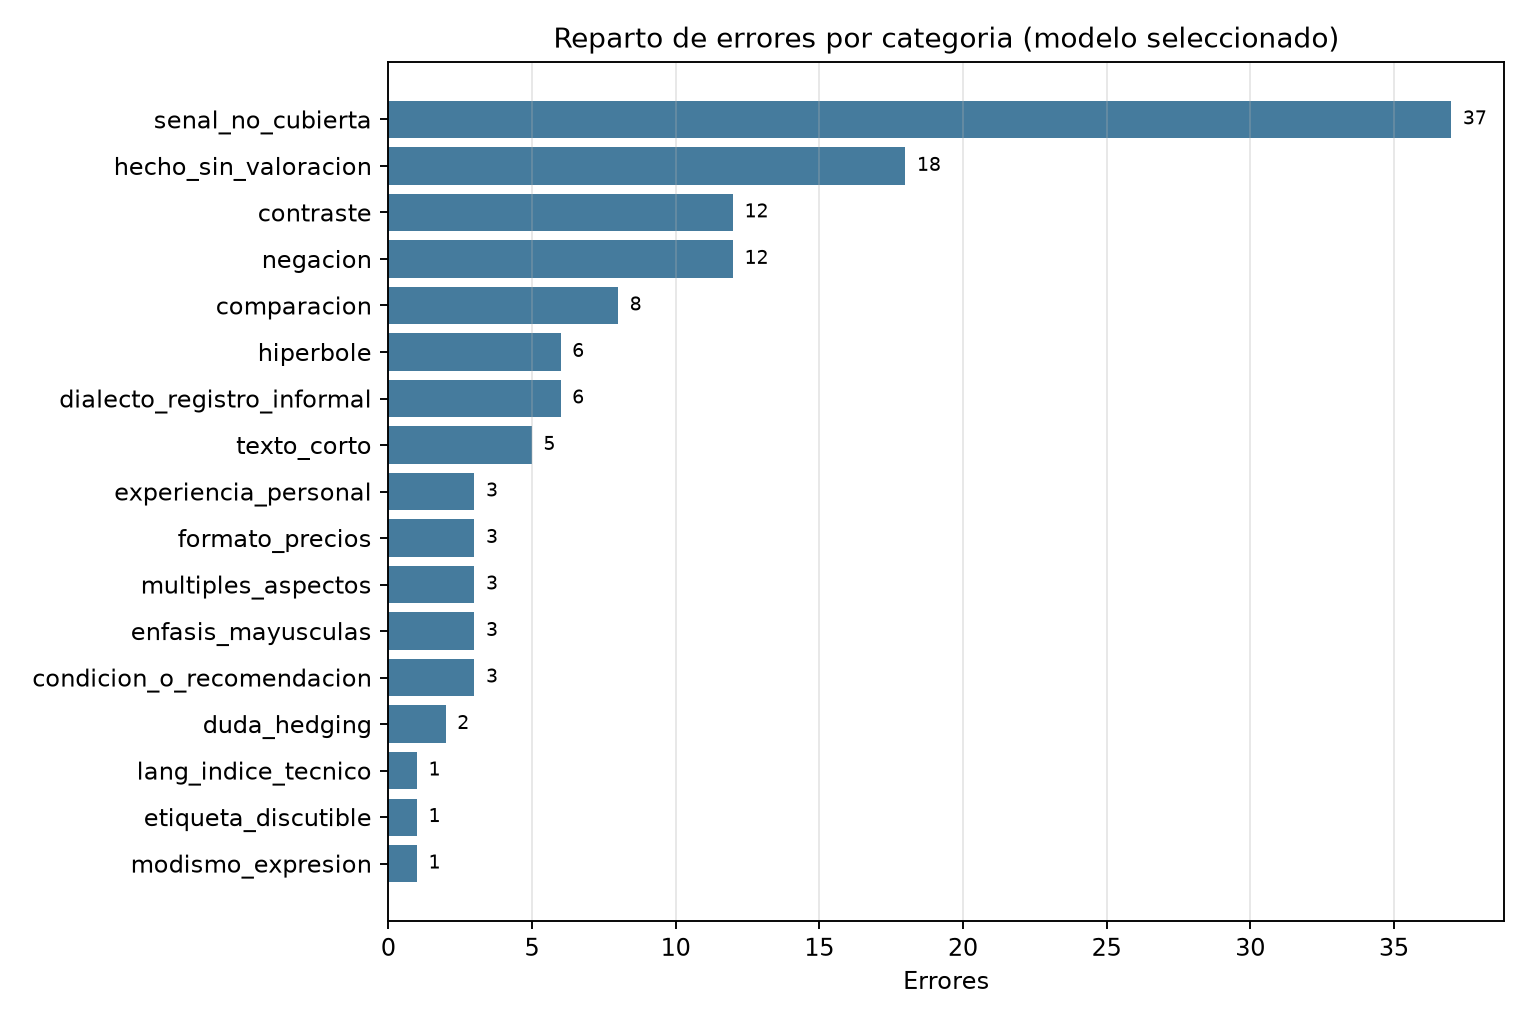
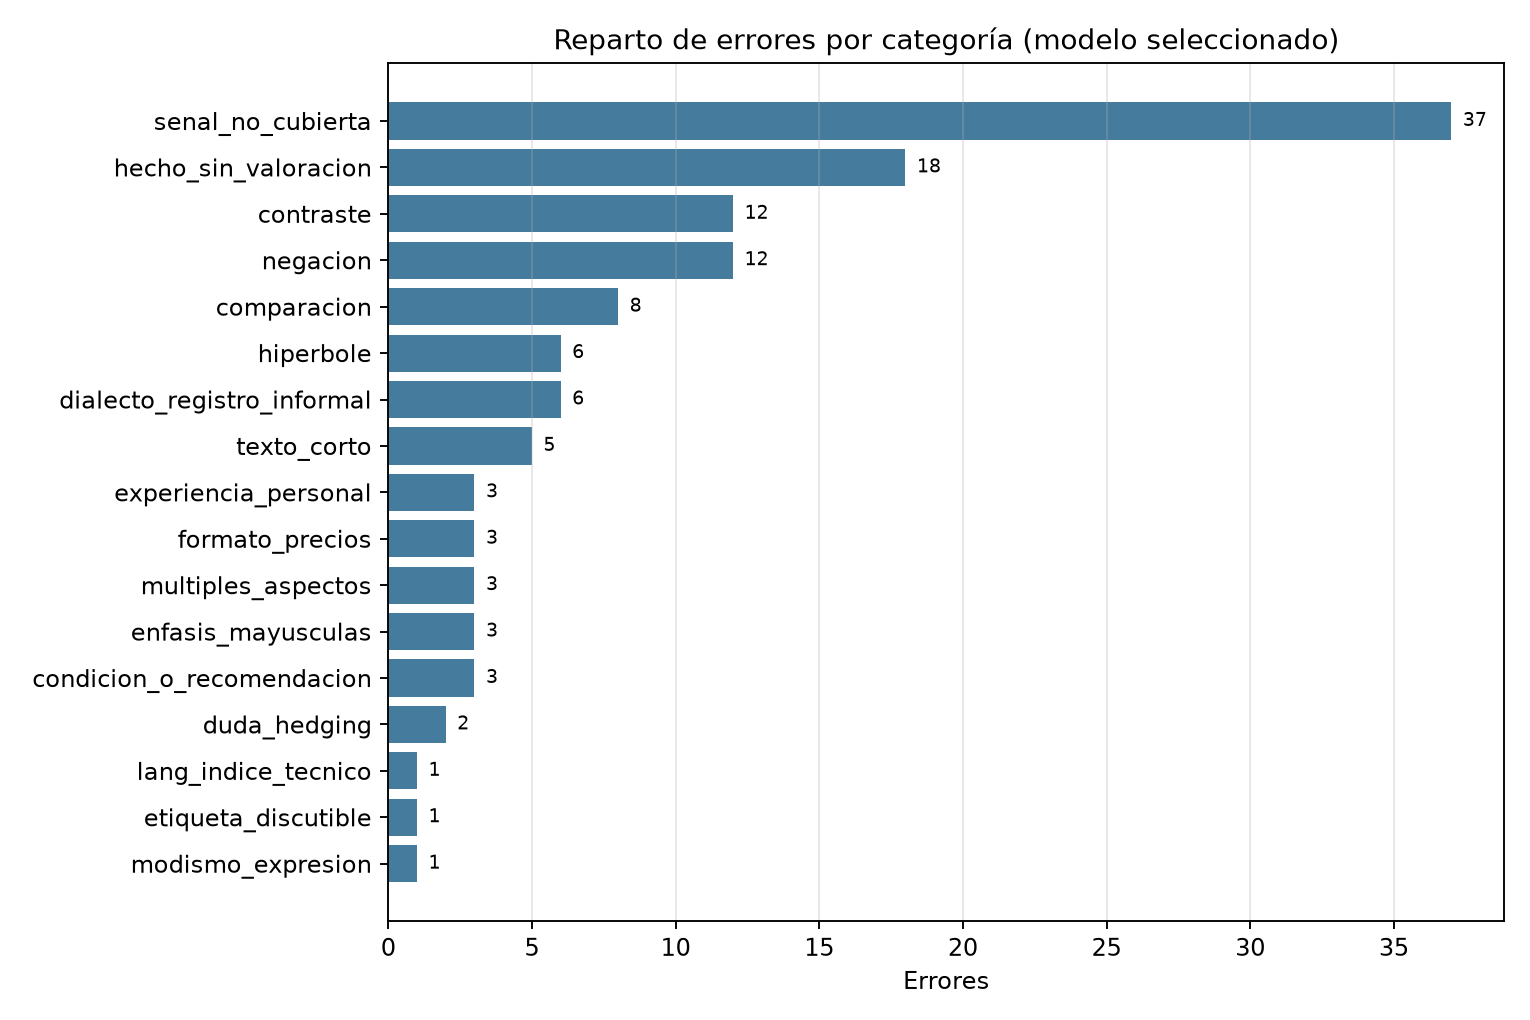
fix(figuras): titulos con tildes y matriz de confusion sin recorte
La 'M' inicial del titulo de la matriz de confusion quedaba cortada: figura
mas ancha y guardado con bbox_inches='tight'. Los titulos de las figuras y los
nombres de los modelos (Regresion logistica -> Regresion logistica con
acentos) ya se publican con tildes.

diff --git a/scripts/train_text.py b/scripts/train_text.py
@@ -70,12 +70,15 @@ def plot_confusion(result, path):
     matrix = pd.DataFrame(
         metrics["matriz_confusion"], index=labels, columns=labels
     )
-    figure, axis = plt.subplots(figsize=(6, 5))
+    figure, axis = plt.subplots(figsize=(7.6, 5.4))
     display = ConfusionMatrixDisplay(confusion_matrix=matrix.values, display_labels=labels)
     display.plot(ax=axis, cmap="Blues", values_format="d")
-    axis.set_title(f"Matriz de confusion · {metrics['nombre']} (F1 macro={metrics['f1_macro']:.3f})")
+    axis.set_title(
+        f"Matriz de confusión · {metrics['nombre']} (F1 macro={metrics['f1_macro']:.3f})",
+        fontsize=11,
+    )
     figure.tight_layout()
-    figure.savefig(path, dpi=170)
+    figure.savefig(path, dpi=170, bbox_inches="tight")
     return figure
 
 
@@ -87,7 +90,7 @@ def plot_models_comparison(result, path):
     bars = axis.bar(names, scores, color=colors)
     axis.set_ylabel("F1 macro")
     axis.set_ylim(0, 1)
-    axis.set_title("Comparacion de pipelines (mismo preprocesamiento y misma particion)")
+    axis.set_title("Comparación de pipelines (mismo preprocesamiento y misma partición)")
     axis.axhline(
         result.metrics["dummy"]["f1_macro"], color="#e76f51", linestyle="--", linewidth=1,
         label="Linea base (DummyClassifier)",
@@ -110,7 +113,7 @@ def plot_errors_by_category(summary, path):
         axis.text(bar.get_width() + 0.4, bar.get_y() + bar.get_height() / 2, str(value),
                   va="center", fontsize=8)
     axis.set_xlabel("Errores")
-    axis.set_title("Reparto de errores por categoria (modelo seleccionado)")
+    axis.set_title("Reparto de errores por categoría (modelo seleccionado)")
     axis.grid(axis="x", alpha=0.3)
     figure.tight_layout()
     figure.savefig(path, dpi=170)

diff --git a/src/inf8239_u02/modeling.py b/src/inf8239_u02/modeling.py
@@ -9,9 +9,9 @@ from sklearn.pipeline import Pipeline
 TARGET_LABEL_NAMES = {"0": "negativo", "1": "positivo"}
 
 MODEL_LABELS = {
-    "dummy": "DummyClassifier (linea base)",
+    "dummy": "Línea base (DummyClassifier)",
     "naive_bayes": "Complement Naive Bayes",
-    "logistic": "Regresion logistica con TF-IDF",
+    "logistic": "Regresión logística con TF-IDF",
 }
 
 
